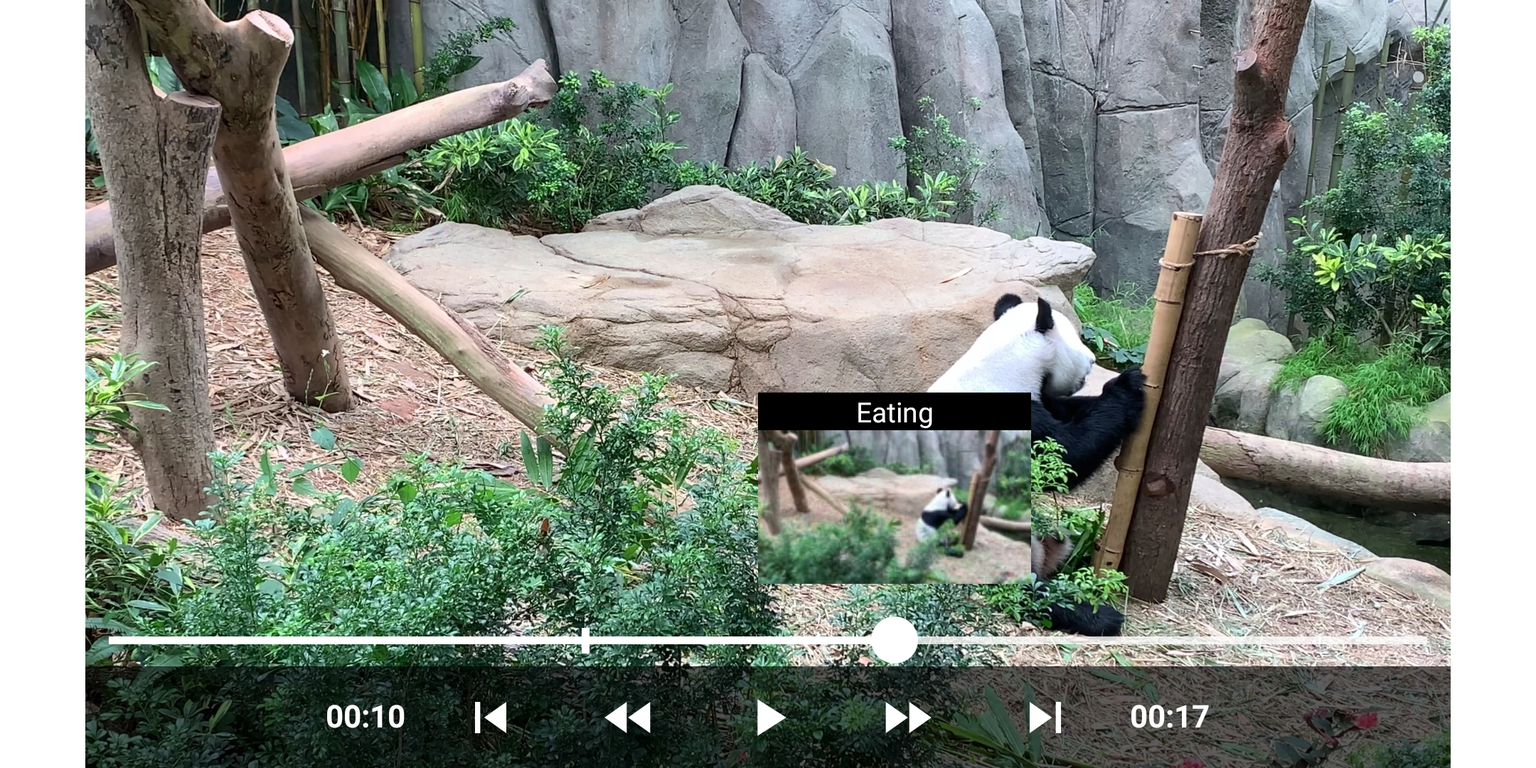
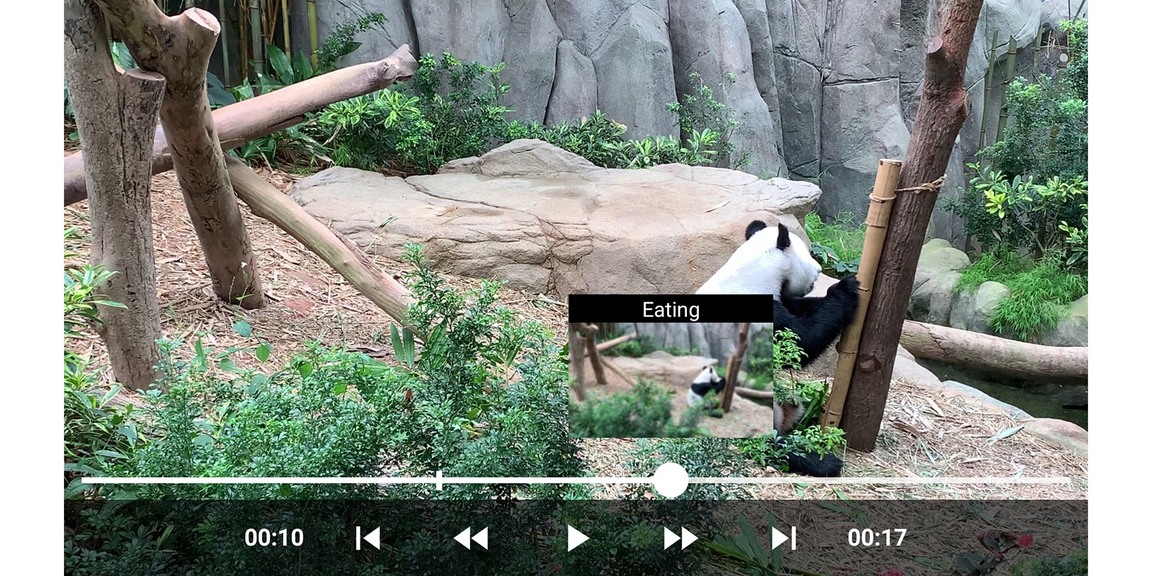
Lowered screenshot resolution and fixed extensions

diff --git a/README.md b/README.md
@@ -21,13 +21,13 @@ Any contributions are highly welcome
 ## Images
 
 ### Login | Actor collection | Actor page
-![Login | Actor collection | Actor page](https://raw.githubusercontent.com/AiluropodaMicrota/PV-Mobile/main/docs/images/1.jpg)
+![Login | Actor collection | Actor page](https://raw.githubusercontent.com/AiluropodaMicrota/PV-Mobile/main/docs/images/1.png)
 
 ### Actor images | Actor scenes | Scene context menu
-![Actor images | Actor scenes | Scene context menu](https://raw.githubusercontent.com/AiluropodaMicrota/PV-Mobile/main/docs/images/2.jpg)
+![Actor images | Actor scenes | Scene context menu](https://raw.githubusercontent.com/AiluropodaMicrota/PV-Mobile/main/docs/images/2.png)
 
 ### Scene details | Scene download | Images gallery
-![Scene details | Scene download | Images gallery](https://raw.githubusercontent.com/AiluropodaMicrota/PV-Mobile/main/docs/images/3.jpg)
+![Scene details | Scene download | Images gallery](https://raw.githubusercontent.com/AiluropodaMicrota/PV-Mobile/main/docs/images/3.png)
 
 ### Video player
 ![Video player](https://raw.githubusercontent.com/AiluropodaMicrota/PV-Mobile/main/docs/images/video_player.jpg)
